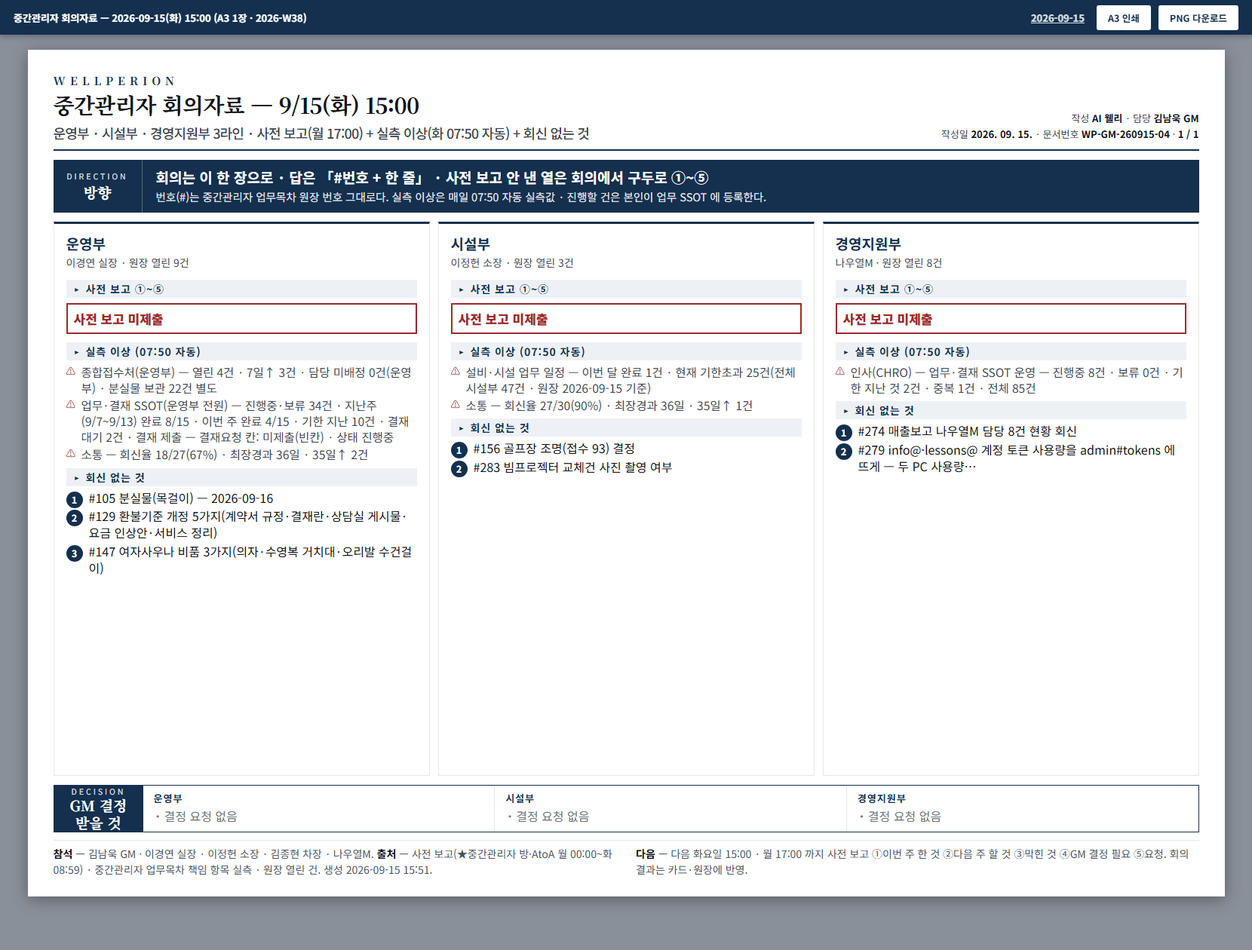
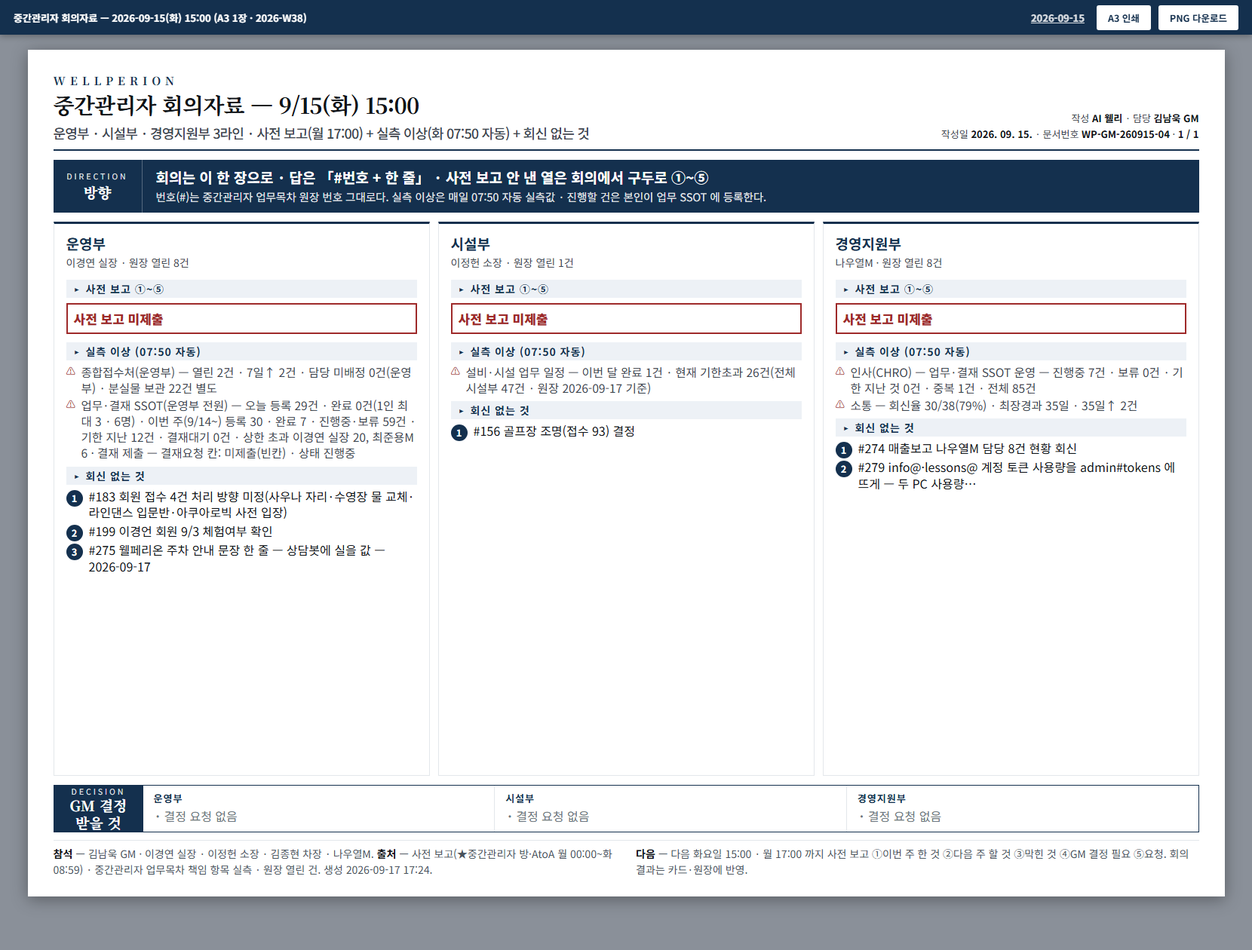
[시우] feat(report): 회의요약·주간 미팅 A3 업무 원천을 업무 SSOT 로 — 배 2727(GM 2026-09-17 단일화)
meeting_brief_a3.load_cards 와 manager_task_index.load_month_objectives 가 monthly_ops_plan
(GM 카드) 대신 업무&결재 SSOT 행(todo_list · gmkey · 담당자 칸)을 읽는다. 카드 41장이 9/17 에
SSOT 행으로 이관돼 두 원장에 같은 건이 있던 자리다. SSOT 내용 칸은 HTML 이라 태그를 걷고
(meeting_brief_a3) 체크 줄만 남긴다(manager_task_index) — 안 그러면 A3 에 태그가 찍히고
낱말 매칭이 이관 메모까지 걸려 지시 카드가 68장으로 부푼다(실측 24장).

검수: 회의요약 A3 scrollHeight 1123/1123 · 중간관리자 회의자료 A3 1123/1123(내용 1099) — 넘침 0.

Changed region(s): [[0.0307, 0.4024, 0.5837, 0.619], [0.6452, 0.4024, 0.9524, 0.5262]]

diff --git a/3. 웰페리온 가이드/coo/chairman/회의요약_A3.html b/3. 웰페리온 가이드/coo/chairman/회의요약_A3.html
@@ -1,6 +1,6 @@
 <!doctype html>
 <html lang="ko"><head><meta charset="utf-8">
-<title>회의 요약 — 지난 보고(9/9) 이후 달라진 것</title>
+<title>회의 요약 — 지난 보고(9/10) 이후 달라진 것</title>
 <link href="https://fonts.googleapis.com/css2?family=Noto+Sans+KR:wght@400;500;700;900&family=Noto+Serif+KR:wght@600;800&display=swap" rel="stylesheet">
 <style>
 :root{--ink:#1a1815;--sub:#5f5a54;--line:#d9d3cc;--navy:#1f2f4a;--gold:#b58a3a;--bg:#faf8f5;--red:#a33a2a;--ok:#2f6f4e;--fs:12.4px}
@@ -44,26 +44,26 @@ td.n{font-weight:700;color:var(--navy);white-space:nowrap}
   <div class="hd">
     <div>
       <div class="brand">WELLPERION</div>
-      <h1>회의 요약 — 지난 보고(9/9) 이후 달라진 것</h1>
-      <div class="sub">회장님 지시 진행 3건 · 9/9 이후 마친 일 9건 · 진행 중 핵심 10건 · 말씀 나누실 주제 5 — 한 장</div>
+      <h1>회의 요약 — 지난 보고(9/10) 이후 달라진 것</h1>
+      <div class="sub">회장님 지시 진행 4건 · 9/10 이후 마친 일 9건 · 진행 중 핵심 10건 · 말씀 나누실 주제 5 — 한 장</div>
     </div>
-    <div class="meta">보고 <b>김남욱 GM</b> · 작성 <b>AI 웰리</b><br>2026. 09. 16. (수) 15:38 · 문서번호 WP-GM-260916-BRIEF</div>
+    <div class="meta">보고 <b>김남욱 GM</b> · 작성 <b>AI 웰리</b><br>2026. 09. 17. (목) 17:12 · 문서번호 WP-GM-260917-BRIEF</div>
   </div>
 
   <div class="grid">
     <!-- 1열 -->
     <div class="col">
       <div class="box top">
-        <h2>👑 회장님 지시 진행 <span class="tag">3건</span></h2>
-        <ul><li><b>SVIP 요가 클래스</b> — 회장님 보고 완료(회장님 목록 d31 내림) — 이제 진행 단계 · <b>미정</b> = 진행 방식 확정 — 수업 담당 선생·시간·주기 · 확정 결과를 파트너팀 담당M 께 넘겨 이어 굴리기  <span class="pill">9/16</span></li><li><b>시니어 회원 정책</b> — 회원·CS 건이라 이경연 실장께 전달 · <b>미정</b> = 구좌 수 확정 — 50~100 사이 어디로 · 시니어 요금 확정  <span class="pill">9/10</span></li><li><b>골프팀 별도 운영</b> — 골프팀 별도 운영도 나우열M 에게 이관  <span class="pill">9/15</span></li></ul>
+        <h2>👑 회장님 지시 진행 <span class="tag">4건</span></h2>
+        <ul><li><b>직원·중간관리자가 주인공</b> — 회장님 말씀 2026-09-16: 직원들, 특히 중간관리자들이 주인공이 될 수 있게 · <b>미정</b> = 회장님 말씀 2026-09-16: 직원들  <span class="pill">9/17</span></li><li><b>연매출 목표</b> — 회장님 말씀 2026-09-16: 100억 연매출 목표  <span class="pill">9/17</span></li><li><b>월 2회 회의</b> — 회장님 말씀 2026-09-16 두 회의를 한 체계로 · <b>미정</b> = 회장님 말씀 2026-09-16: 매월 15~20일 · 회장님 말씀 2026-09-16: 매월 말 결산 회의  <span class="pill">9/17</span></li><li><b>시니어 회원 정책</b> — ①70세 이상은 받지 않는다 ②아파트 주민에 한해 운영부 검토·승인 후 받는다 ③SVIP · <b>미정</b> = 구좌 수 확정 — 50~100 사이 어디로 · 시니어 요금 확정 </li></ul>
       </div>
       <div class="box">
-        <h2>📅 9/9 이후 마친 일 <span class="tag">9건</span></h2>
-        <ul><li><b>3라인 직책체계 + 중간관리자 평가</b> <span class="pill g">카드 완료 9/15</span></li><li><b>AWS 계정 개설</b> <span class="pill g">카드 완료 9/15</span></li><li><b>골프팀장 결정 미팅</b> <span class="pill g">카드 완료 9/15</span></li><li><b>회장님·파트너팀 오찬 시리즈</b> <span class="pill g">카드 완료 9/15</span></li><li><b>회장님·파트너팀 오찬</b> <span class="pill g">카드 완료 9/14</span></li><li><b>9/1 회장님·대표님 보고 → 부서 평가</b> <span class="pill g">카드 완료 9/9</span></li><li><b>중간관리자 평가 체계</b> <span class="pill g">카드 완료 9/9</span></li><li><span class="k">결재 완료</span> 분리수거장 안내물 — 최준용M <span class="pill g">9/15</span></li><li><span class="k">중간관리자</span> 원장 회신 마감 <b>78건</b></li></ul>
+        <h2>📅 9/10 이후 마친 일 <span class="tag">9건</span></h2>
+        <ul><li><b>동부이촌동커뮤니티 재계약</b> <span class="pill g">카드 완료 8/3</span></li><li><b>SOJT 사업자 지원사업 진행</b> <span class="pill g">카드 완료 2/26</span></li><li><b>9월 LOSS / 신규 문의자 재컨택 및</b> <span class="pill g">카드 완료 9/28</span></li><li><b>상가</b> <span class="pill g">카드 완료 9/28</span></li><li><b>웰페리온 X 오넛티 추석 선물세트</b> <span class="pill g">카드 완료 9/28</span></li><li><b>더플라자 리뉴얼에 따른 회원 수용 검토</b> <span class="pill g">카드 완료 9/26</span></li><li><b>분리수거장 안내물</b> <span class="pill g">카드 완료 9/17</span></li><li><b>헬스장 바이크 2종</b> <span class="pill g">카드 완료 9/17</span></li><li><span class="k">중간관리자</span> 원장 회신 마감 <b>89건</b></li></ul>
       </div>
       <div class="box">
         <h2>🏗 체계 — 지시 없이 돌게 만드는 것</h2>
-        <ul><li><b>매출 및 회원 현황 보고 서버판 전환</b> — GM 지시 2026-09-14 15:5x</li><li><b>CCTV 전체 교체</b> — 93대 → 100대로 갱신해 계약 진행 예정(최종)</li><li><b>보고·알림 자동화</b> — 설계·진행은 GM업무 문자 자동 연동 (딜라이브) 카드(2026-09-12) 한 곳에만 둔다.</li><li><b>지원부 사우나 정비</b> — 분류를 운영 정책에서 시설 및 환경으로 이동 (반영 완료 2026-09-09)</li></ul>
+        <ul><li><b>AX 랩스 채널 계정 5개 개설</b> — ■ 계정 5개(GM 손</li><li><b>매출 및 회원 현황 보고 서버판 전환</b> — GM 지시 2026-09-14 15:5x</li><li><b>새 홈페이지 → ERP 로그인 → ERP</b> — 홈페이지·직원 로그인·ERP 세 층의 구조와 진행을 한 장으로 본다</li><li><b>문자 자동 연동</b> — 전응준 대표님 통신이용증명서 + 신분증 수령(9/15 요청</li></ul>
       </div>
     </div>
 
@@ -73,16 +73,16 @@ td.n{font-weight:700;color:var(--navy);white-space:nowrap}
         <h2>🚀 진행 중 핵심 — 숫자·기한</h2>
         <table>
           <tr><th style="width:150px">건</th><th>현재</th><th style="width:118px">다음</th></tr>
-          <tr><td class="n">CCTV 전체 교체</td><td>93대 → 100대로 갱신해 계약 진행 예정(최종) · CCTV 모니터 설치 — 무조건 방법을 찾아 셋업(9/15 15:00 중간관리자 미팅에서 시설부에 전달</td><td><span class="pill r">9/15 CCTV 모니터</span></td></tr>
-          <tr><td class="n">보고·알림 자동화</td><td>설계·진행은 GM업무 문자 자동 연동 (딜라이브) 카드(2026-09-12) 한 곳에만 둔다. · 카톡 겹치는 8곳 정리 마무리 (~8/30) ▸웰리 실측 2026-09-03</td><td><span class="pill r">9/15 2주 무결 확인</span></td></tr>
-          <tr><td class="n">웰페리온 ERP 고도화 + 브로제이</td><td>9/16(수) 14:00~14:30 브로제이 게이트팀 현장 실측 · 브로제이 게이트팀 통화 완료 — 9/16(수) 14:00 현장 실측 확정</td><td><span class="pill y">9/16 이정헌 소장</span></td></tr>
-          <tr><td class="n">신성미소시티 간판</td><td>관리부 방에 A3 요약본 보고 · 통화대본대로 진행, 의견 주시면 반영 — 발송 11:21 ✔ · GM 지시 — 통화 9/16 · 접수 9/21 · 준비 완료 뒤 대표님 전달. A3·의견제출서 날짜 갱신.</td><td><span class="pill y">9/16 GM 통화</span></td></tr>
-          <tr><td class="n">수영장 대청소</td><td>휴관일(둘째 일요일)에 수영장 대청소 진행</td><td><span class="pill y">9/16 휴관일(둘째</span></td></tr>
-          <tr><td class="n">문자 자동 연동</td><td>API 선불 30만원 충전 · 딜라이브 문자 API 등록에 쓸 고정 IP 확보 완료(15.164.151.105 · 배909)</td><td><span class="pill y">9/17 전응준 대표님</span></td></tr>
-          <tr><td class="n">헬스장 장비 도입</td><td>3사에 입식 3 · 좌식 3 같은 기준 최종 네고 견적을 받아 9/18(금) 결정 → 결재 상신 → 구매</td><td><span class="pill y">9/17 3사 최종 네고</span></td></tr>
-          <tr><td class="n">중간관리자 회의자료</td><td>중간관리자 미팅 회의자료가 아니라 중간관리자 회의자료로 GM업무 조직칸에</td><td><span class="pill y">9/21 첫 사전 보고</span></td></tr>
-          <tr><td class="n">주차장 바닥보수공사</td><td>대체 주차 확정 — 분수대 앞 공간 (GM 2026-08-26) · 출차 기한 확정 — 10/11(일) 오전 8시 (GM 2026-08-26)</td><td><span class="pill">9/27 회원 사전 안내</span></td></tr>
-          <tr><td class="n">쓰쿠루 파트너 계약 해지</td><td>김남욱GM · 공간 디자인 진행은 박수철 대표님 공간 디자인 협업으로 옮겼다. 이 카드는 쓰쿠루 정산 종결까지다.</td><td><span class="pill">9/30 쓰쿠루 파트너</span></td></tr>
+          <tr><td class="n">김현수1 LOSS 반영한 매출보고서</td><td>8/19 LOSS 미처리로 매출보고 오류 → GM '내일 놓치면 안됨'</td><td><span class="pill r">8/19</span></td></tr>
+          <tr><td class="n">예상 매출 및 목표</td><td></td><td><span class="pill r">8/30</span></td></tr>
+          <tr><td class="n">9월 매출목표 및 달성방안</td><td>🎯 목표 — 9월매출목표 및 달성방안 · 📊 현황·실적 — 8월 실적현황</td><td><span class="pill r">8/31</span></td></tr>
+          <tr><td class="n">회원권 요금 인상안 최종본</td><td>GM 지시 2026-09-07</td><td><span class="pill r">9/9</span></td></tr>
+          <tr><td class="n">당근 비즈프로필 남은 2건</td><td>당근 업종: 당근 목록에 스포츠클럽 없음(검색 0건) · 바로 진행 — 시모가 오늘 변경 요청 폼 제출</td><td><span class="pill r">9/11</span></td></tr>
+          <tr><td class="n">브로제이 SRS 검토</td><td>9/11 진행 못 함 · 2026-09-10(목) 오전 마감</td><td><span class="pill r">9/12</span></td></tr>
+          <tr><td class="n">딜라이브 API 연동</td><td>기한 9/14 로 — 딜라이브 문자 API 등록 안내 받으면 착수(전사일정 9/14) · GM 지시 2026-09-05</td><td><span class="pill r">9/13</span></td></tr>
+          <tr><td class="n">여자 건식사우나 앞 미끄러움 안전건</td><td>19일째·담당 <b>미정</b>, GM 안전 우선 요청 · [9/11 웰리] 담당 <b>미정</b>이던 건</td><td><span class="pill r">9/14</span></td></tr>
+          <tr><td class="n">9월 3주차 회의</td><td>📌 안건 · 👥 참석자</td><td><span class="pill r">9/14</span></td></tr>
+          <tr><td class="n">브로제이 턴게이트·키오스크 도입</td><td>A3 5차 갱신 — 남자사우나·여자사우나 설치 확정본 2장(입구 원본 · 합성 봉 · 합성 유리) · 9/16(수) 14:00~14:30 브로제이 게이트팀 현장 실측</td><td><span class="pill r">9/14</span></td></tr>
         </table>
       </div>
     </div>
@@ -91,27 +91,27 @@ td.n{font-weight:700;color:var(--navy);white-space:nowrap}
     <div class="col">
       <div class="box">
         <h2>🗣 말씀 나누실 주제 <span class="tag">5</span></h2>
-        <ul class="talk"><li><span class="q">1</span><b>시니어 회원 정책</b> — 구좌 수 확정 — 50~100 사이 어디로 · 시니어 요금 확정 <b>미정</b></li><li><span class="q">2</span><b>SVIP 요가 클래스</b> — 진행 방식 확정 — 수업 담당 선생·시간·주기 · 확정 결과를 파트너팀 담당M 께 넘겨 이어 굴리기 <b>미정</b></li><li><span class="q">3</span><b>지원부 사우나 정비</b> — 1⃣ 바스타올 — 시작 시점·필요 수량 회신 받기 · 2⃣ 린넨 <b>미정</b></li><li><span class="q">4</span><b>문자 자동 연동</b> — ③휴회 안내 자동 발송 배선·가동 · ②문의 폼 자동 발송 — 셋업·테스트·가이드 후 공유 <b>미정</b></li><li><span class="q">5</span><b>전략 로드맵·4부서 개선</b> — 매월 같은 틀로 진척만 갱신 · 4분기(브랜드 구축) 진척 0% <b>미정</b></li></ul>
+        <ul class="talk"><li><span class="q">1</span><b>직원·중간관리자가 주인공</b> — 회장님 말씀 2026-09-16: 직원들 <b>미정</b></li><li><span class="q">2</span><b>월 2회 회의</b> — 회장님 말씀 2026-09-16: 매월 15~20일 · 회장님 말씀 2026-09-16: 매월 말 결산 회의 <b>미정</b></li><li><span class="q">3</span><b>시니어 회원 정책</b> — 구좌 수 확정 — 50~100 사이 어디로 · 시니어 요금 확정 <b>미정</b></li><li><span class="q">4</span><b>새 홈페이지 → ERP 로그인 → ERP</b> — 걷는 영상 1편 촬영 · 브랜드 가이드 기준 시안 <b>미정</b></li><li><span class="q">5</span><b>전략 로드맵·4부서 개선</b> — 매월 같은 틀로 진척만 갱신 · 4분기(브랜드 구축) 진척 0% <b>미정</b></li></ul>
       </div>
       <div class="box">
-        <h2>✅ 9/9 이후 끝난 것</h2>
-        <ul><li>3라인 직책체계 + 중간관리자 평가 · AWS 계정 개설 · 골프팀장 결정 미팅 · 회장님·파트너팀 오찬 시리즈 · 회장님·파트너팀 오찬 · 9/1 회장님·대표님 보고 → 부서 평가 · 중간관리자 평가 체계 · 분리수거장 안내물 · 주차장 차량 대기구역 지정 및 표지판 설치 · 홈페이지 자주 묻는 질문 · 남자 사우나 탕 옆 휴식용 선베드 2대 설치 · CCTV 100대 전체 교체 계약 · SVIP 요가 클래스 1:1 · 브로제이 출입 설비 도입 외 36건 · 원장 회신 78건</li></ul>
+        <h2>✅ 9/10 이후 끝난 것</h2>
+        <ul><li>동부이촌동커뮤니티 재계약 · SOJT 사업자 지원사업 진행 · 9월 LOSS / 신규 문의자 재컨택 및 · 상가 · 웰페리온 X 오넛티 추석 선물세트 · 더플라자 리뉴얼에 따른 회원 수용 검토 · 분리수거장 안내물 · 헬스장 바이크 2종 · CCTV 전체 교체 · info@·lessons@ 계정 토큰 · 남자 사우나 탕 옆 휴식용 선베드 2대 · 상담봇 비즈니스화 · 신규 골프팀 팀리더·오전 프로 구인 · 최현준 골프팀장 계약해지 및 인수인계 외 49건 · 원장 회신 89건</li></ul>
       </div>
       <div class="box">
         <h2>⚠ 대표님 지시 진행</h2>
-        <ul><li><b>사우나·수영장 환기 해결</b> — 대표님께서 직접 지시하신 건이라 보고는 끝난 상태다 — 이제 진행만 남았다 — 이정헌 소장님</li><li><b>가나설비 진행건</b> — 대표님께서 직접 지시하신 건이라 보고는 끝난 상태다 — 이제 진행만 남았다 — 이정헌 소장님</li><li><b>리셉션 응대 셋업</b> — 대표님 보고 (확인 필요 — 기록에는 정리본 GM 전달 2026-08-31 까지만 있다) — ceo</li><li><b>방역·방제 체계 가동</b> — 매주 토요일 자체 방역 시작 — 습식 배수구 라인 (전사일정 evt-20260912-pest-start) — 이정헌 소장님</li></ul>
+        <ul><li><b>방역·방제 체계 가동</b> — 매주 토요일 자체 방역 시작 — 습식 배수구 라인 (전사일정 evt-20260912-pest-start) — 이정헌 소장님</li><li><b>리셉션 응대 셋업</b> — 대표님 보고 (확인 필요 — 기록에는 정리본 GM 전달 2026-08-31 까지만 있다) — 김남욱GM</li><li><b>가나설비 진행건</b> — <b>미정</b> — 이정헌 소장님</li><li><b>사우나·수영장 환기 해결</b> — <b>미정</b> — 이정헌 소장님</li></ul>
       </div>
       <div class="box">
         <h2>📋 중간관리자 미회신 — 사람별</h2>
-        <ul><li><span class="k">이경연 실장님</span> 14건 · 최장 37일</li><li><span class="k">나우열M</span> 8건 · 최장 34일</li><li><span class="k">최준용M</span> 6건 · 최장 22일</li><li><span class="k">임정은M</span> 4건 · 최장 29일</li><li><span class="k">윤병현AM</span> 3건 · 최장 12일</li><li><span class="k">이정헌 소장님</span> 2건 · 최장 37일</li></ul>
+        <ul><li><span class="k">나우열M</span> 8건 · 최장 35일</li><li><span class="k">이경연 실장님</span> 8건 · 최장 15일</li><li><span class="k">임정은M</span> 2건 · 최장 30일</li><li><span class="k">이정헌 소장님</span> 1건 · 최장 24일</li><li><span class="k">최준용M</span> 1건 · 최장 14일</li><li><span class="k">윤병현AM</span> 1건 · 최장 6일</li></ul>
       </div>
       <div class="box">
         <h2>📌 이 종이의 근거</h2>
-        <ul><li>GM업무 카드 112장(진행 37) · 중간관리자 원장 #162건(미회신 37) · 전사일정 249건 · 업무&결재 SSOT 248행 — 기준일 2026-09-09 · 추정 없음 · 미정은 「미정」</li></ul>
+        <ul><li>GM업무 카드 296장(진행 82) · 중간관리자 원장 #165건(미회신 21) · 전사일정 287건 · 업무&결재 SSOT 296행 — 기준일 2026-09-10 · 추정 없음 · 미정은 「미정」</li></ul>
       </div>
     </div>
   </div>
 
-  <div class="ft"><span>이 종이 한 장 = 회의용 요약 · 상세는 GM업무 화면(erp.wellperion.com/coo/chairman/GM업무.html) · 생성 scripts/meeting_brief_a3.py</span><span>AI 웰리 · 2026. 09. 16. (수) 15:38</span></div>
+  <div class="ft"><span>이 종이 한 장 = 회의용 요약 · 상세는 GM업무 화면(erp.wellperion.com/coo/chairman/GM업무.html) · 생성 scripts/meeting_brief_a3.py</span><span>AI 웰리 · 2026. 09. 17. (목) 17:12</span></div>
 </div>
 </body></html>

diff --git a/3. 웰페리온 가이드/coo/chairman/중간관리자_회의자료_A3.html b/3. 웰페리온 가이드/coo/chairman/중간관리자_회의자료_A3.html
@@ -58,7 +58,7 @@
   <button id="png">PNG 다운로드</button>
 </div>
 <div class="page" id="sheet1"></div>
-<script id="rounds" type="application/json">{"2026-09-15": {"meeting_date": "2026-09-15", "week": "2026-W38", "doc_no": "WP-GM-260915-04", "generated_at": "2026-09-15 15:51", "attendees": "김남욱 GM · 이경연 실장 · 이정헌 소장 · 김종현 차장 · 나우열M", "ssot_ok": true, "cols": {"운영부": {"person": "이경연 실장", "submitted": false, "at": "", "intake": [], "open": 9, "anomalies": ["종합접수처(운영부) — 열린 4건 · 7일↑ 3건 · 담당 미배정 0건(운영부) · 분실물 보관 22건 별도", "업무·결재 SSOT(운영부 전원) — 진행중·보류 34건 · 지난주(9/7~9/13) 완료 8/15 · 이번 주 완료 4/15 · 기한 지난 10건 · 결재대기 2건 · 결재 제출 — 결재요청 칸: 미제출(빈칸) · 상태 진행중", "소통 — 회신율 18/27(67%) · 최장경과 36일 · 35일↑ 2건"], "nudges": ["#105 분실물(목걸이) — 2026-09-16", "#129 환불기준 개정 5가지(계약서 규정·결재란·상담실 게시물·요금 인상안·서비스 정리)", "#147 여자사우나 비품 3가지(의자·수영복 거치대·오리발 수건걸이)"], "decisions": []}, "시설부": {"person": "이정헌 소장", "submitted": false, "at": "", "intake": [], "open": 3, "anomalies": ["설비·시설 업무 일정 — 이번 달 완료 1건 · 현재 기한초과 25건(전체 시설부 47건 · 원장 2026-09-15 기준)", "소통 — 회신율 27/30(90%) · 최장경과 36일 · 35일↑ 1건"], "nudges": ["#156 골프장 조명(접수 93) 결정", "#283 빔프로젝터 교체건 사진 촬영 여부"], "decisions": []}, "경영지원부": {"person": "나우열M", "submitted": false, "at": "", "intake": [], "open": 8, "anomalies": ["인사(CHRO) — 업무·결재 SSOT 운영 — 진행중 8건 · 보류 0건 · 기한 지난 것 2건 · 중복 1건 · 전체 85건"], "nudges": ["#274 매출보고 나우열M 담당 8건 현황 회신", "#279 info@·lessons@ 계정 토큰 사용량을 admin#tokens 에 뜨게 — 두 PC 사용량…"], "decisions": []}}}}</script>
+<script id="rounds" type="application/json">{"2026-09-15": {"meeting_date": "2026-09-15", "week": "2026-W38", "doc_no": "WP-GM-260915-04", "generated_at": "2026-09-17 17:24", "attendees": "김남욱 GM · 이경연 실장 · 이정헌 소장 · 김종현 차장 · 나우열M", "ssot_ok": true, "cols": {"운영부": {"person": "이경연 실장", "submitted": false, "at": "", "intake": [], "open": 8, "anomalies": ["종합접수처(운영부) — 열린 2건 · 7일↑ 2건 · 담당 미배정 0건(운영부) · 분실물 보관 22건 별도", "업무·결재 SSOT(운영부 전원) — 오늘 등록 29건 · 완료 0건(1인 최대 3 · 6명) · 이번 주(9/14~) 등록 30 · 완료 7 · 진행중·보류 59건 · 기한 지난 12건 · 결재대기 0건 · 상한 초과 이경연 실장 20, 최준용M 6 · 결재 제출 — 결재요청 칸: 미제출(빈칸) · 상태 진행중"], "nudges": ["#183 회원 접수 4건 처리 방향 미정(사우나 자리·수영장 물 교체·라인댄스 입문반·아쿠아로빅 사전 입장)", "#199 이경언 회원 9/3 체험여부 확인", "#275 웰페리온 주차 안내 문장 한 줄 — 상담봇에 실을 값 — 2026-09-17"], "decisions": []}, "시설부": {"person": "이정헌 소장", "submitted": false, "at": "", "intake": [], "open": 1, "anomalies": ["설비·시설 업무 일정 — 이번 달 완료 1건 · 현재 기한초과 26건(전체 시설부 47건 · 원장 2026-09-17 기준)"], "nudges": ["#156 골프장 조명(접수 93) 결정"], "decisions": []}, "경영지원부": {"person": "나우열M", "submitted": false, "at": "", "intake": [], "open": 8, "anomalies": ["인사(CHRO) — 업무·결재 SSOT 운영 — 진행중 7건 · 보류 0건 · 기한 지난 것 0건 · 중복 1건 · 전체 85건", "소통 — 회신율 30/38(79%) · 최장경과 35일 · 35일↑ 2건"], "nudges": ["#274 매출보고 나우열M 담당 8건 현황 회신", "#279 info@·lessons@ 계정 토큰 사용량을 admin#tokens 에 뜨게 — 두 PC 사용량…"], "decisions": []}}}}</script>
 <script>
 (function () {
   var ROUNDS = JSON.parse(document.getElementById('rounds').textContent || '{}');

diff --git a/scripts/manager_task_index.py b/scripts/manager_task_index.py
@@ -209,13 +209,50 @@ def _parse_ymd(s) -> "date | None":
         return None
 
 
-def load_month_objectives() -> list:
-    """월간운영계획 이번 달 카드(status/monthly_ops_plan.json). 조회 실패면 빈 목록."""
-    try:
-        d = json.loads((ROOT / "status" / "monthly_ops_plan.json").read_text(encoding="utf-8"))
-        return d["months"][_period_ym()].get("objectives") or []
-    except Exception:
+_SSOT_DONE = {"완료", "종결", "취소"}
+_HTML_TAGS = re.compile(r"<[^>]+>")
+
+
+def _check_lines_only(note: str) -> str:
+    """SSOT 내용 칸 → 체크 줄(☑·□)만. 태그를 걷고 ===PLAN=== 뒤는 버린다.
+
+    쓰는 쪽이 줄 첫 글자로 체크를 세고(_checkbox_tally·_ops_check_lines), 낱말로 카드를
+    고른다(automation_cell·directive_cell) — 이관 메모가 섞이면 둘 다 부풀어 오른다."""
+    plain = _HTML_TAGS.sub("\n", str(note or "").split("===PLAN===")[0])
+    out = [ln.strip() for ln in plain.replace("&nbsp;", " ").splitlines()
+           if ln.strip().startswith(("☑", "□"))]
+    return "\n".join(out)
+
+
+def load_month_objectives(rows: "list | None" = None) -> list:
+    """이번 달 업무 건 — 업무&결재 SSOT 행을 카드 모양으로 돌려준다.
+
+    ★2026-09-17 원천 교체(GM 「업무 SSOT 로 단일화」). 종전엔 monthly_ops_plan 의 이번 달 카드를
+    읽었는데 그 카드가 같은 날 SSOT 행으로 이관돼 두 원장에 같은 건이 있었다. 쓰는 쪽
+    (automation_cell·directive_cell·_ops_progress_cell)은 title·progress_note(체크 줄)·due·status·owner
+    다섯 칸만 보므로 그 칸만 맞춰 준다. 조회 실패면 빈 목록(지어내지 않는다)."""
+    rows = rows if rows is not None else fetch_ssot_rows()
+    if not rows:
         return []
+    ym = _period_ym()
+    out = []
+    for r in rows:
+        if not isinstance(r, dict):
+            continue
+        due = str(r.get("종료일") or "")[:10]
+        touched = str(r.get("수정일") or r.get("생성일") or "")[:7]
+        if due[:7] != ym and touched != ym:
+            continue          # 이번 달과 무관한 행은 이 달 지표에서 뺀다(종전 「이번 달 카드」와 같은 범위)
+        out.append({
+            "id": str(r.get("id") or ""),
+            "title": str(r.get("업무명") or ""),
+            "owner": str(r.get("담당자") or ""),
+            "due": due,
+            # 닫힌 상태는 「완료」 한 낱말로 모은다 — 쓰는 쪽(_overdue_objs)이 status=="완료" 로만 판정한다
+            "status": "완료" if str(r.get("상태") or "") in _SSOT_DONE else str(r.get("상태") or ""),
+            "progress_note": _check_lines_only(r.get("내용")),
+        })
+    return out
 
 
 def load_sales_target(bucket: str) -> "int | None":
@@ -712,7 +749,7 @@ def backfill_months(months: list[str], force: bool = False) -> None:
             y, m = (int(x) for x in ym.split("-"))
             PERIOD = date(y, m, calendar.monthrange(y, m)[1])
             sales_data = fill_sales_current(seen)
-            objs = load_month_objectives()
+            objs = load_month_objectives(ssot_rows)
             rows_def = resp_rows_def(seen, ssot_rows, sales_data, objs)
             month_snap: dict = {"_소급": "2026-09-16 실측(웰리)"}
             for person in RESP_PEOPLE:
@@ -788,7 +825,7 @@ def resp_rows_def(seen: dict, ssot_rows: "list | None", sales_data: "dict | None
 def resp_section(seen: dict, ssot_rows: "list | None", sales_data: "dict | None" = None) -> tuple[dict, dict]:
     """돌려주는 값 = ({사람: 행 모델 목록} 3인, 원장 전체). 스냅숏은 4인(GM 포함) — GM업무 띠가 그 원장을 읽는다."""
     ev = load_eval()
-    objs = load_month_objectives()
+    objs = load_month_objectives(ssot_rows)
     rows_def = resp_rows_def(seen, ssot_rows, sales_data, objs)
     model: dict = {}
     month_snap: dict = {}
@@ -2348,7 +2385,7 @@ def meeting_round(meeting: date, rounds: dict) -> dict:
     seen = latest_by_no()
     sales_data = fill_sales_current(seen)
     ssot_rows = fetch_ssot_rows()
-    objs = load_month_objectives()
+    objs = load_month_objectives(ssot_rows)
     rows_def = resp_rows_def(seen, ssot_rows, sales_data, objs)
     intake = _load_intake(meeting)
     try:

diff --git a/scripts/meeting_brief_a3.py b/scripts/meeting_brief_a3.py
@@ -5,7 +5,7 @@
 업무 + 전사일정 + 업무&결재SSOT 연동을 원했던거야」). CSS·3열 구성은 손 판 그대로, 내용만 네 원천에서 읽는다.
 
 원천 4 (읽기만 · 어느 원천도 고치지 않는다)
-  ① GM업무 카드      status/monthly_ops_plan.json  months[*].objectives
+  ① 업무 건          업무&결재 SSOT 행(todo_list · 2026-09-17 단일화 · GM 카드는 읽지 않는다)
   ② 중간관리자 원장  1. AI자료_아카이브/11_카카오톡/★중간관리자/_digest_ledger.json  (같은 no 는 마지막 날짜가 최신)
   ③ 전사일정         status/schedule_ssot.json  items[] (name·next_due·assignee·plan_id)
   ④ 업무&결재 SSOT   GAS todo_list (gmkey 포함 — GM 행은 이 키 없이는 안 나온다)
@@ -121,16 +121,41 @@ def emph(s: str) -> str:
 
 
 # ── ① GM업무 카드 ───────────────────────────────────────────────
-def load_cards() -> list[dict]:
-    p = json.load(open(PLAN, encoding="utf-8"))
+HTML_TAGS = re.compile(r"<[^>]+>")   # 시트 편집기가 내용 칸에 남긴 HTML
+_ROW_DONE = {"완료", "종결", "취소"}
+
+
+def load_cards(log=None) -> list[dict]:
+    """업무&결재 SSOT 행을 카드 모양으로. ★2026-09-17 원천 교체(GM 「업무 SSOT 로 단일화」) —
+    종전엔 monthly_ops_plan(GM 카드)를 읽었는데 그 카드가 같은 날 SSOT 행으로 이관돼 두 곳에서
+    같은 건이 나왔다. 아래 절들은 이 모양(_lines·_short·status·due)만 보므로 그대로 돈다."""
+    rows = load_todos(log or (lambda *_a, **_k: None))
+    if rows is None:
+        return []
     cards = []
-    for mk, m in sorted(p["months"].items()):
-        for o in m.get("objectives") or []:
-            o = dict(o)
-            o["_month"] = mk
-            o["_lines"] = note_lines(o.get("progress_note") or "")
-            o["_short"] = short_title(o.get("title") or "")
-            cards.append(o)
+    for r in rows:
+        if not isinstance(r, dict) or not str(r.get("업무명") or "").strip():
+            continue
+        st = str(r.get("상태") or "")
+        stamp = str(r.get("수정일") or r.get("생성일") or "")[:7].replace("/", "-")
+        c = {
+            "id": str(r.get("id") or ""),
+            "title": str(r.get("업무명") or "").strip(),
+            "status": "완료" if st in _ROW_DONE else "진행",
+            "due": str(r.get("종료일") or "")[:10],
+            "owner": str(r.get("담당자") or ""),
+            "category": str(r.get("카테고리") or ""),
+            "progress_note": str(r.get("내용") or ""),
+            "_row": r,
+        }
+        c["_month"] = stamp if len(stamp) == 7 else dt.date.today().strftime("%Y-%m")
+        # SSOT 내용에는 시트 편집기가 넣은 HTML 태그(<p style=…>)와 ===PLAN=== 뒤 본문이 섞여 있다 —
+        # 그대로 두면 표 「현재」 칸에 태그가 그대로 찍힌다(2026-09-17 실측).
+        plain = HTML_TAGS.sub(" ", c["progress_note"].split("===PLAN===")[0])
+        plain = plain.replace("&nbsp;", " ").replace("&amp;", "&")
+        c["_lines"] = note_lines(plain)
+        c["_short"] = short_title(c["title"])
+        cards.append(c)
     return cards
 
 
@@ -252,7 +277,7 @@ def pill(d: dt.date | None, today: dt.date, text: str = "") -> str:
 
 
 def build(since: dt.date, today: dt.date, now: dt.datetime, log) -> tuple[dict, dict]:
-    cards = load_cards()
+    cards = load_cards(log)
     ledger = load_ledger()
     sched = load_schedule()
     todos = load_todos(log)
